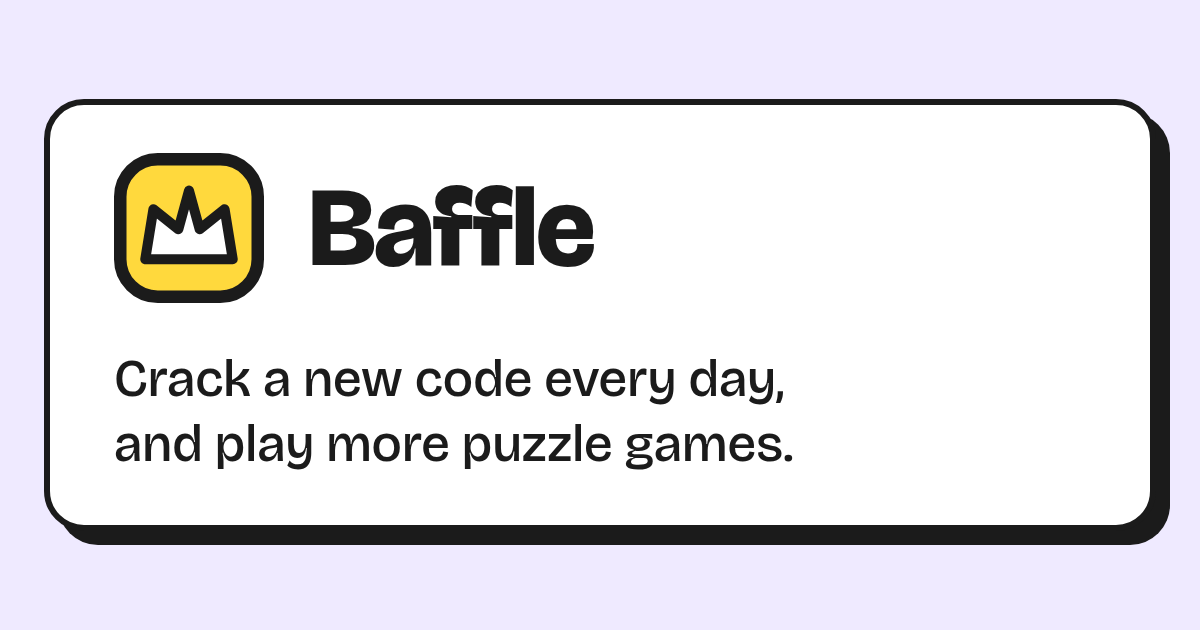
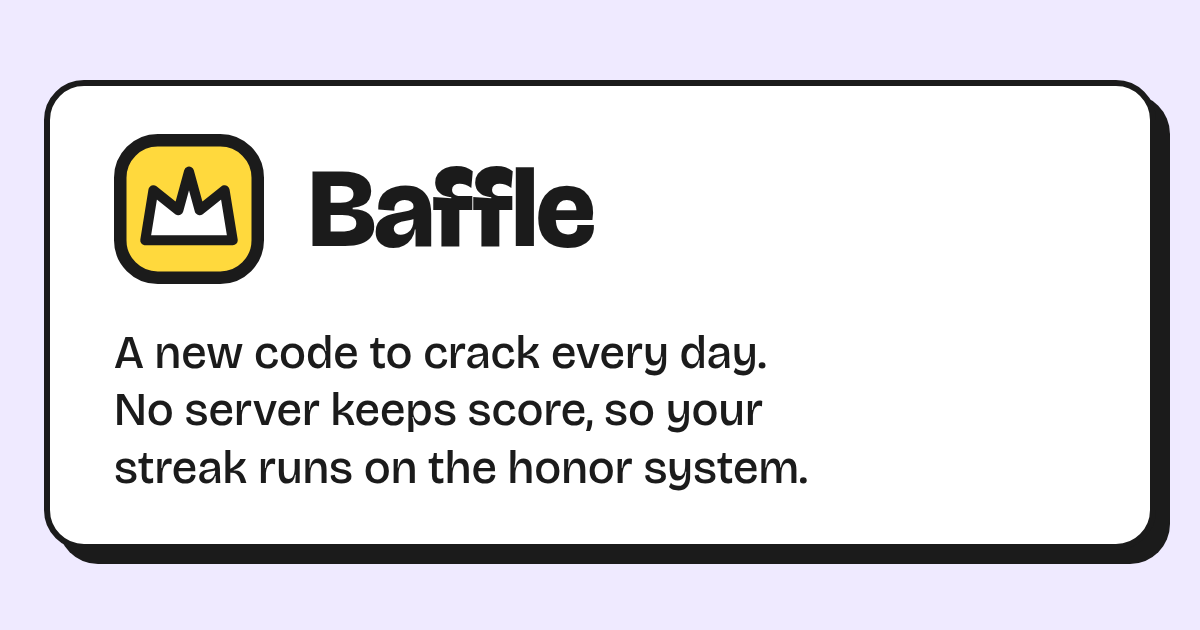
Sharpen the share line

diff --git a/index.html b/index.html
@@ -7,14 +7,14 @@
     <link rel="preconnect" href="https://fonts.googleapis.com">
     <link rel="preconnect" href="https://fonts.gstatic.com" crossorigin>
     <link href="https://fonts.googleapis.com/css2?family=Bricolage+Grotesque:opsz,wght@12..96,400;12..96,600;12..96,800&display=swap" rel="stylesheet">
-    <meta name="description" content="Crack a new code every day, and play more puzzle games.">
+    <meta name="description" content="A new code to crack every day. No server keeps score, so your streak runs on the honor system.">
     <meta property="og:type" content="website">
     <meta property="og:title" content="Baffle">
-    <meta property="og:description" content="Crack a new code every day, and play more puzzle games.">
+    <meta property="og:description" content="A new code to crack every day. No server keeps score, so your streak runs on the honor system.">
     <meta property="og:image" content="https://bzr-sys.github.io/baffle/og.png">
     <meta property="og:image:width" content="1200">
     <meta property="og:image:height" content="630">
-    <meta property="og:image:alt" content="Baffle: Crack a new code every day, and play more puzzle games.">
+    <meta property="og:image:alt" content="Baffle: A new code to crack every day. No server keeps score, so your streak runs on the honor system.">
     <meta name="twitter:card" content="summary_large_image">
     <title>Baffle</title>
   </head>
